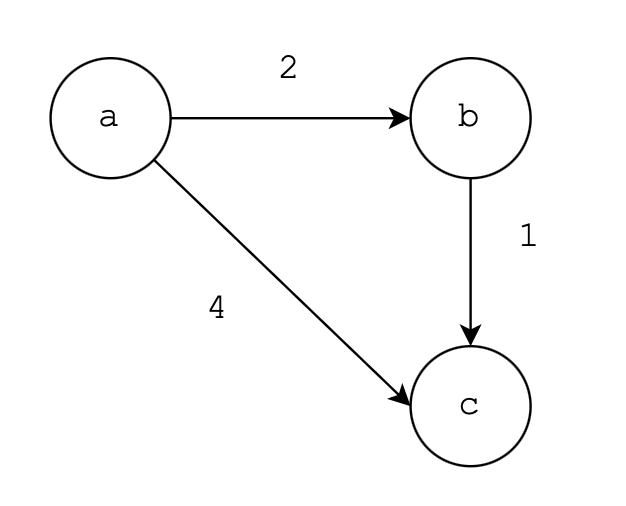
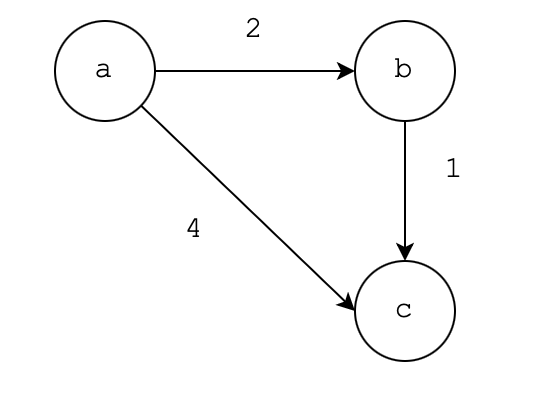
more fixes on image, add side note for blog 4

diff --git a/src/lib/blogUtils.ts b/src/lib/blogUtils.ts
@@ -11,8 +11,6 @@ import rehypeStringify from 'rehype-stringify';
 
 const blogModules = import.meta.glob('/src/blogs/*.md', { query: '?raw', import: 'default', eager: true });
 
-console.log('Globbed blog files:', Object.keys(blogModules));
-
 export interface BlogData {
     slug: string;
     meta: { imagePath: string; imageName: string; title: string; date: string; excerpt: string; tags: string[]; };
@@ -21,7 +19,6 @@ export interface BlogData {
 
 export const getBlogData = (): BlogData[] => {
     const blogs = Object.entries(blogModules).map(([filePath, rawContent]) => {
-        console.log(`Processing file: ${filePath}`);
         const slug = filePath.split('/').pop()?.replace('.md', '') || '';
 
         if (!slug) {
@@ -48,23 +45,19 @@ export const getBlogData = (): BlogData[] => {
         }
     }).filter((blog): blog is BlogData => blog !== null);
 
-    console.log('Parsed blogs:', blogs.map((b) => ({ slug: b.slug, title: b.meta.title })));
     return blogs;
 };
 
 export const getAllBlogSlugs = (): string[] => {
     const slugs = getBlogData().map((blog) => blog.slug);
-    console.log('Available slugs:', slugs);
     return slugs;
 };
 
 export const getBlogBySlug = async (slug: string) => {
-    console.log(`Fetching blog for slug: ${slug}`);
     const blogs = getBlogData();
     const blog = blogs.find((b) => b.slug === slug);
     if (!blog) {
         console.error(`Blog not found for slug: ${slug}`);
-        console.log('Available blogs:', blogs.map((b) => b.slug));
         return null;
     }
 

diff --git a/index.html b/index.html
@@ -2,8 +2,8 @@
 <html lang="en">
   <head>
     <meta charset="UTF-8" />
[1 lines of base64/hex data omitted]
-    <link rel="apple-touch-icon" href="/yan-yan-icon.svg" />
[1 lines of base64/hex data omitted]
+    <link rel="apple-touch-icon" sizes="180x180" href="/yan-yan-icon.svg?v=2" />
     <meta name="viewport" content="width=device-width, initial-scale=1.0" />
     <title>Fungusan Portfolio</title>
   </head>

diff --git a/src/index.css b/src/index.css
@@ -11,11 +11,25 @@
 }
 
 .markdown {
-    @apply prose prose-sm md:prose-base lg:prose-lg max-w-none prose-pre:bg-slate-100 prose-pre:text-gray-100 prose-img:mx-auto lg:prose-img:max-w-[60%];
+    @apply prose prose-sm md:prose-base lg:prose-lg max-w-none;
+    @apply prose-pre:bg-slate-100 prose-pre:text-gray-100;
 
     /* Remove backticks from inline code */
     & :not(pre) > code::before,
     & :not(pre) > code::after {
         content: none;
+    }
+
+    /* Responsive image styling */
+    & img {
+        @apply mx-auto h-auto max-w-full sm:max-w-[90%] md:max-w-[55%] lg:max-w-[40%];
+    }
+
+    & .hide-on-sm {
+        @apply hidden md:block;
+    }
+
+    & .hide-on-md {
+        @apply block md:hidden;
     }
 }

diff --git a/src/components/NavBar/NavBar.tsx b/src/components/NavBar/NavBar.tsx
@@ -18,7 +18,7 @@ const NavBar = () => {
                     {/* Brand Icon */}
                     <div className="flex items-center gap-3">
                         <div className="bg-[#849F5D]/90 size-4"></div>
-                        <p className="font-serif text-2xl font-thin"> Fungusan </p>
+                        <p className="font-serif text-xl md:text-2xl font-thin"> Fungusan </p>
                     </div>
                 </div>
 

diff --git a/src/blogs/blog_4.md b/src/blogs/blog_4.md
@@ -2,7 +2,7 @@
 imagePath: "/blog_images/blog_4/main.jpg"
 imageName: "Blog 4 - LeetCode 2976"
 title: "DP Revisited: An Intro to Floyd–Warshall Algorithm"
-date: "Feb 13, 2026"
+date: "Feb 15, 2026"
 excerpt: "This time, join me to discover an application of DP in graph theory called Floyd–Warshall algorithm, with an interesting LeetCode problem."
 tags: ["Algorithm"]
 ---
@@ -87,7 +87,9 @@ This is where the problem starts to get interesting. Instead of thinking it as a
 - for each $i \in \{0, \dots, , n - 1\}$, add a directed edge (`original[i]`, `changed[i]`), with weight `cost[i]`
 It will make more sense looking at a concrete example:
 
-<img src="/blog_images/blog_4/graph.png" alt="Blog 4 - Graph" style="max-width: 30%; height: auto;" class="mx-auto" />
+<img src="/blog_images/blog_4/graph.png" alt="Blog 4 - Graph" class="img hide-on-md" style="max-width: 80% !important; height: auto;" />
+
+<img src="/blog_images/blog_4/graph.png" alt="Blog 4 - Graph Large" class="img hide-on-sm" />
 
 I'll explain this step by step. First, for easier implementation and formulation, it's often more convenient to work with indices rather than the characters themselves. The graph will have at most 26 vertices, because we're only dealing with lowercase letters. Here, we can think of each transformation as an edge from one character vertex to another, with the edge weights perfectly capturing the transformation costs.
 
@@ -212,12 +214,12 @@ $$
     d(u, t) = \min_{(u,v) \in E} \{d(v, t) + w(u, v)\}
 $$
 
-<img src="/blog_images/blog_4/graph_2.png" alt="Blog 4 - Graph 2" style="max-width: 40%; height: auto;" class="mx-auto" />
+<img src="/blog_images/blog_4/graph_2.png" alt="Blog 4 - Graph 2" class="img" />
 
 where $d(u, t)$ is the shortest distance from vertex $u$ to vertex $t$, $w(u, v)$ is the edge weight.
 In plain English, to find the shortest path from $u$ to $t$, we will consider all possible outgoing edges $(u, v)$, plus shortest paths from $v$ to $t$. How do you know those shortest paths? You just apply the exact same logic recursively. This process propagates until it reaches a vertex that has a direct edge to $t$. At that point, the shortest path is simply the weight of that edge (with some subtleties).
 
-<img src="/blog_images/blog_4/graph_5.png" alt="Blog 4 - Graph 5" style="max-width: 40%; height: auto;" class="mx-auto" />
+<img src="/blog_images/blog_4/graph_5.png" alt="Blog 4 - Graph 5" class="img" />
 
 The same idea applies when we think about path-to-path construction. Suppose we consider paths that pass through a set of intermediate nodes (as shown on the diagram), and we also have the optimal subpaths from $i$ to $k_p$ and $k_p$ to $j$ for $p \in \{1, \dots, n\}$. To construct the full path to $j$, we just simply consider all the possible pairings through different intermediate nodes $k_p$. How do you know those shortest subpaths? Similarly, you apply the same logic, but with smaller subproblems. For the formal recursive definition:
 
@@ -255,9 +257,14 @@ You might find this familiar, because that's exactly what we've derived previous
 
 Again, this is a bit abstract, let's walk through an example (huge credit to wiki page!):
 
-<img src="/blog_images/blog_4/graph_6.png" alt="Blog 4 - Graph 6" style="max-width: 75%; height: auto;" class="mx-auto" />
+<img src="/blog_images/blog_4/graph_6.png" alt="Blog 4 - Graph 6" class="img hide-on-md" style="max-width: 100% !important; height: auto;" />
 
-<img src="/blog_images/blog_4/graph_7.png" alt="Blog 4 - Graph 7" style="max-width: 75%; height: auto;" class="mx-auto" />
+<img src="/blog_images/blog_4/graph_6_lg.png" alt="Blog 4 - Graph 6 Large" class="img hide-on-sm" style="max-width: 85% !important; height: auto;" />
+
+<img src="/blog_images/blog_4/graph_7.png" alt="Blog 4 - Graph 7" class="img hide-on-md" style="max-width: 100% !important; height: auto;" />
+
+<img src="/blog_images/blog_4/graph_7_lg.png" alt="Blog 4 - Graph 7 Large" class="img hide-on-sm" style="max-width: 85% !important; height: auto;" />
+
 
 - At $k = 0$, we initialize the DP matrix with the graph topology, i.e. relax direct edges.
 - At $k = 1$, we consider pairing via vertex 1. In this case, no better paths are found since no vertice can go to vertex 1.
@@ -311,3 +318,5 @@ To really absord knowledge, it's best to spend a little time to ponder on the to
 1. Despite being wasting and inefficient, running the "disordered" $i, j, k$ triple loop **multiple** times can actually converge to the correct shortest paths. Can you see why?
 
 2. There's another triple loop order will work. Can you see which?
+
+Side note: today's my birthday, hurray! Time spent on tuning the image sizes of this blog... Hope you enjoy!
